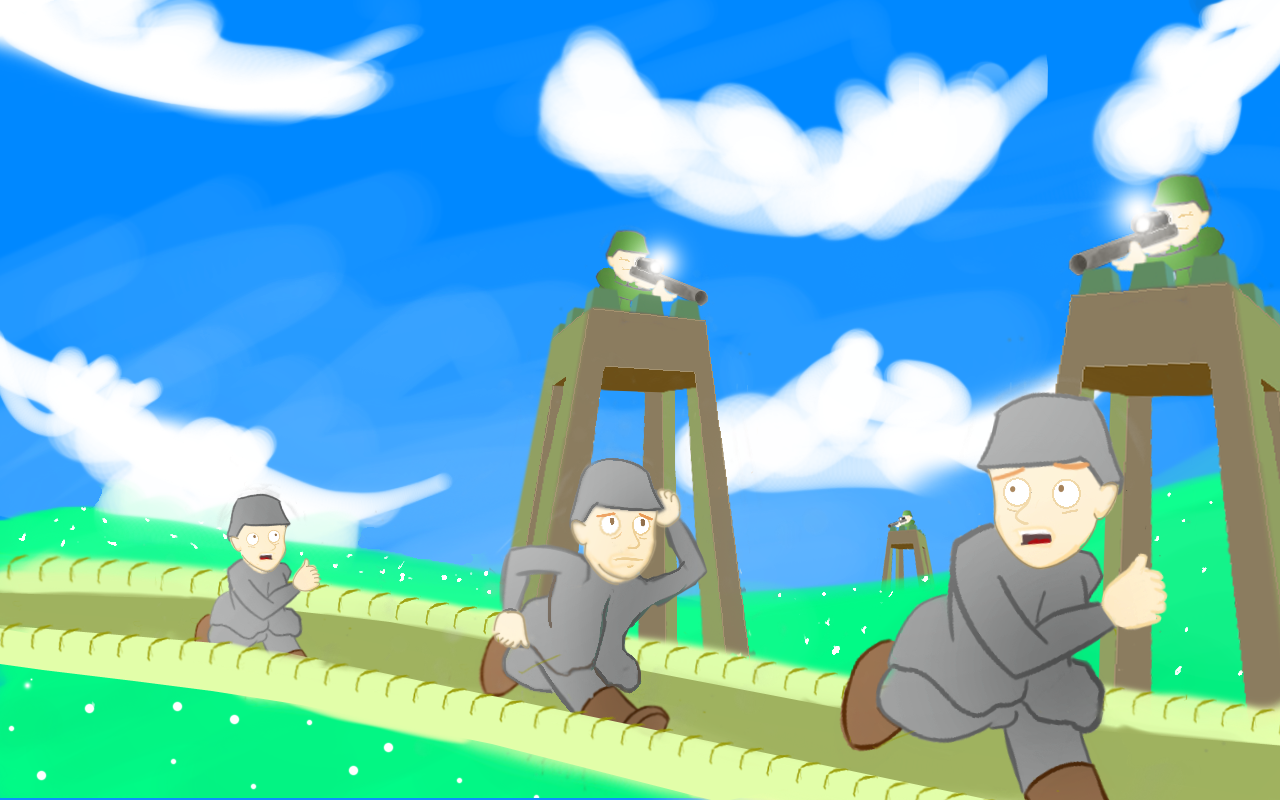
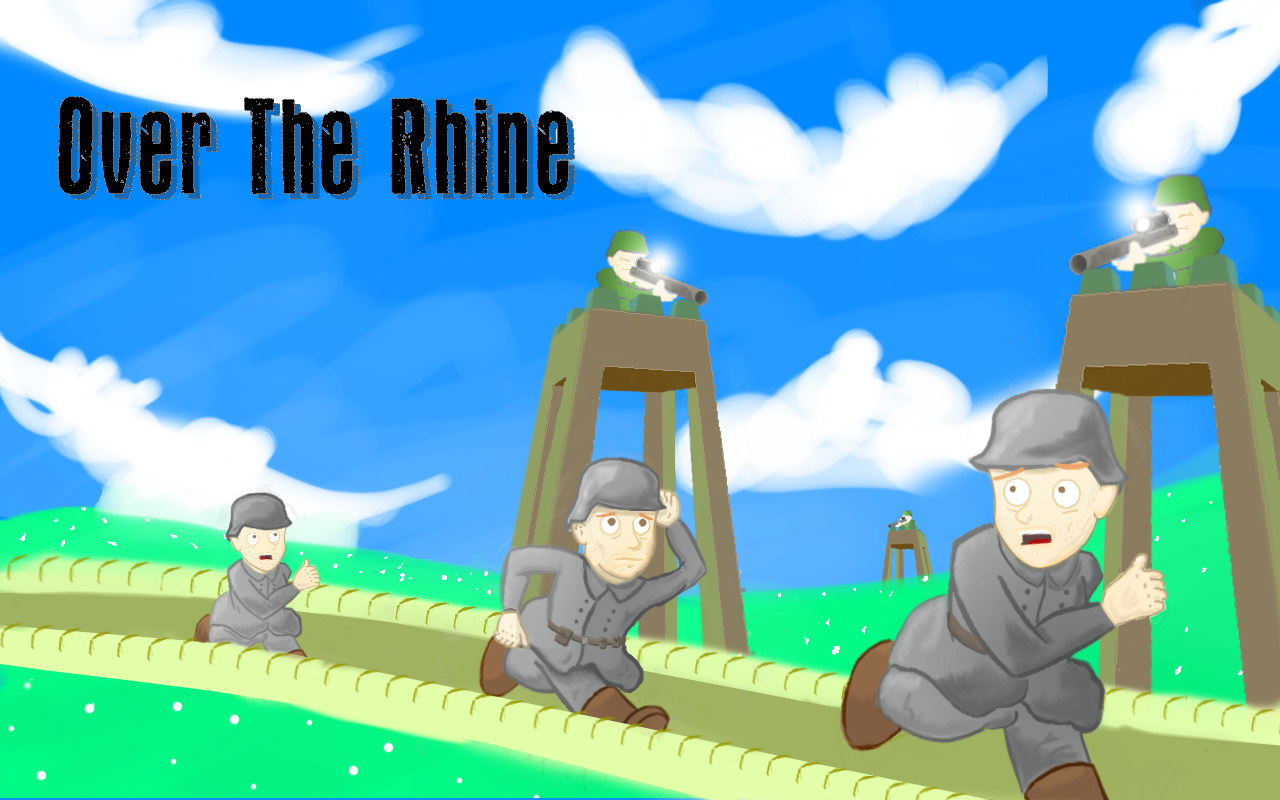
New title style and better shading on enemies

diff --git a/project/core/src/com/mygdx/states/Menu.java b/project/core/src/com/mygdx/states/Menu.java
@@ -48,7 +48,7 @@ public class Menu extends GameState {
         AssetManager.loadSound(1);
 
 
-        title = new Actor(new Texture("Title/title.png"),-220,-150);
+        title = new Actor(new Texture("Title/title2.png"),-220,-150);
         hub.addActor(title);
         ((OrthographicCamera) hub.getCamera()).zoom =1.54f;
 
